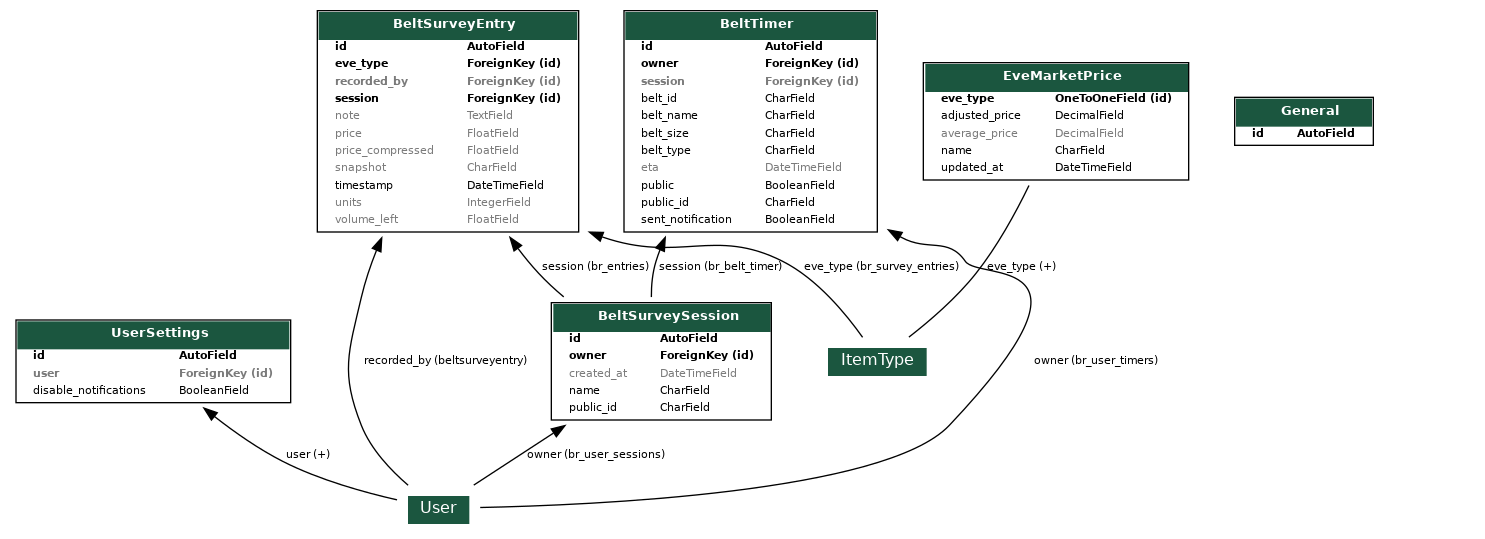
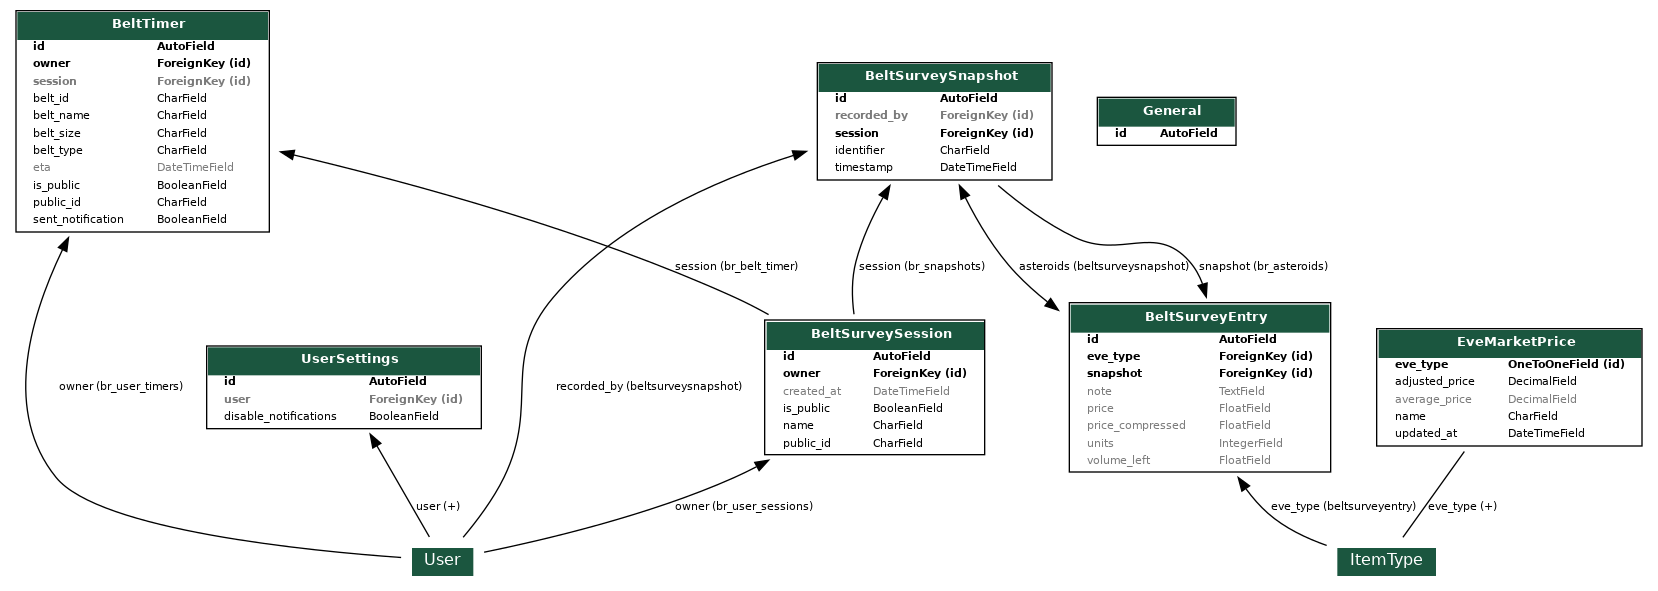
[RELEASE] v1.0.0

diff --git a/beltradar/__init__.py b/beltradar/__init__.py
@@ -1,6 +1,6 @@
 """Initialize the app"""
 
-__version__ = "0.6.0"
+__version__ = "1.0.0"
 __title__ = "Belt Radar"
 
 __package_name__ = "aa-beltradar"

diff --git a/CHANGELOG.md b/CHANGELOG.md
@@ -26,8 +26,11 @@ Section Order:
 ### Removed
 -->
 
+## [1.0.0]- 2026-09-05
+
 > [!CAUTION]
-> All Survey Entries and Sessions will be removed with Belt Radar v1
+> Please note that this release involves structural changes.
+> All Survey Entries and Sessions will be removed.
 
 ### Fixed
 
